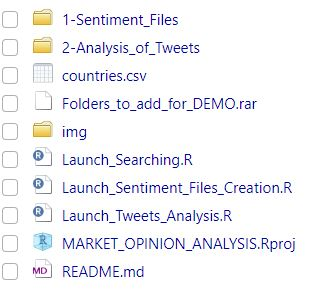
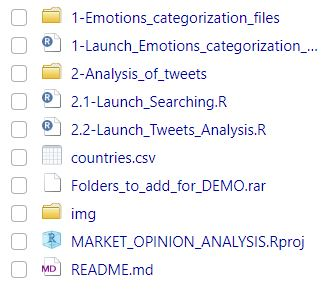
Script names changes. TODOs added.

Changed region(s): [[0.0, 0.0, 0.9745, 0.9426]]

diff --git a/Readme.md b/Readme.md
@@ -22,13 +22,13 @@ The project consists of these files and folders:
 This project consists of:
 
 -   Two working directories:
-    -   `1-Sentiment_Files`
+    -   `1-Emotions_categorization_Files`
     -   `2-Analysis_of_Tweets`
 -   A comma-separated file:
     -   `countries.csv`
 -   A compressed file:
     -   `Folders_to_add_for_DEMO.rar`
 -   Three scripts that corresponds to the three main tasks of the program:
-    -   `Launch_Searching.R` : for creation of categories.
-    -   `Launch_Sentiment_Files_Creation.R` - for tweet search.
-    -   `Launch_Tweets_Analysis.R` - analysis of tweets.
+    -   `1-Launch_Emotions_categorization_Files_Creation.R` - for tweet search.
+    -   `2.1-Launch_Searching.R` : for creation of categories.
+    -   `2.2-Launch_Tweets_Analysis.R` - analysis of tweets.
